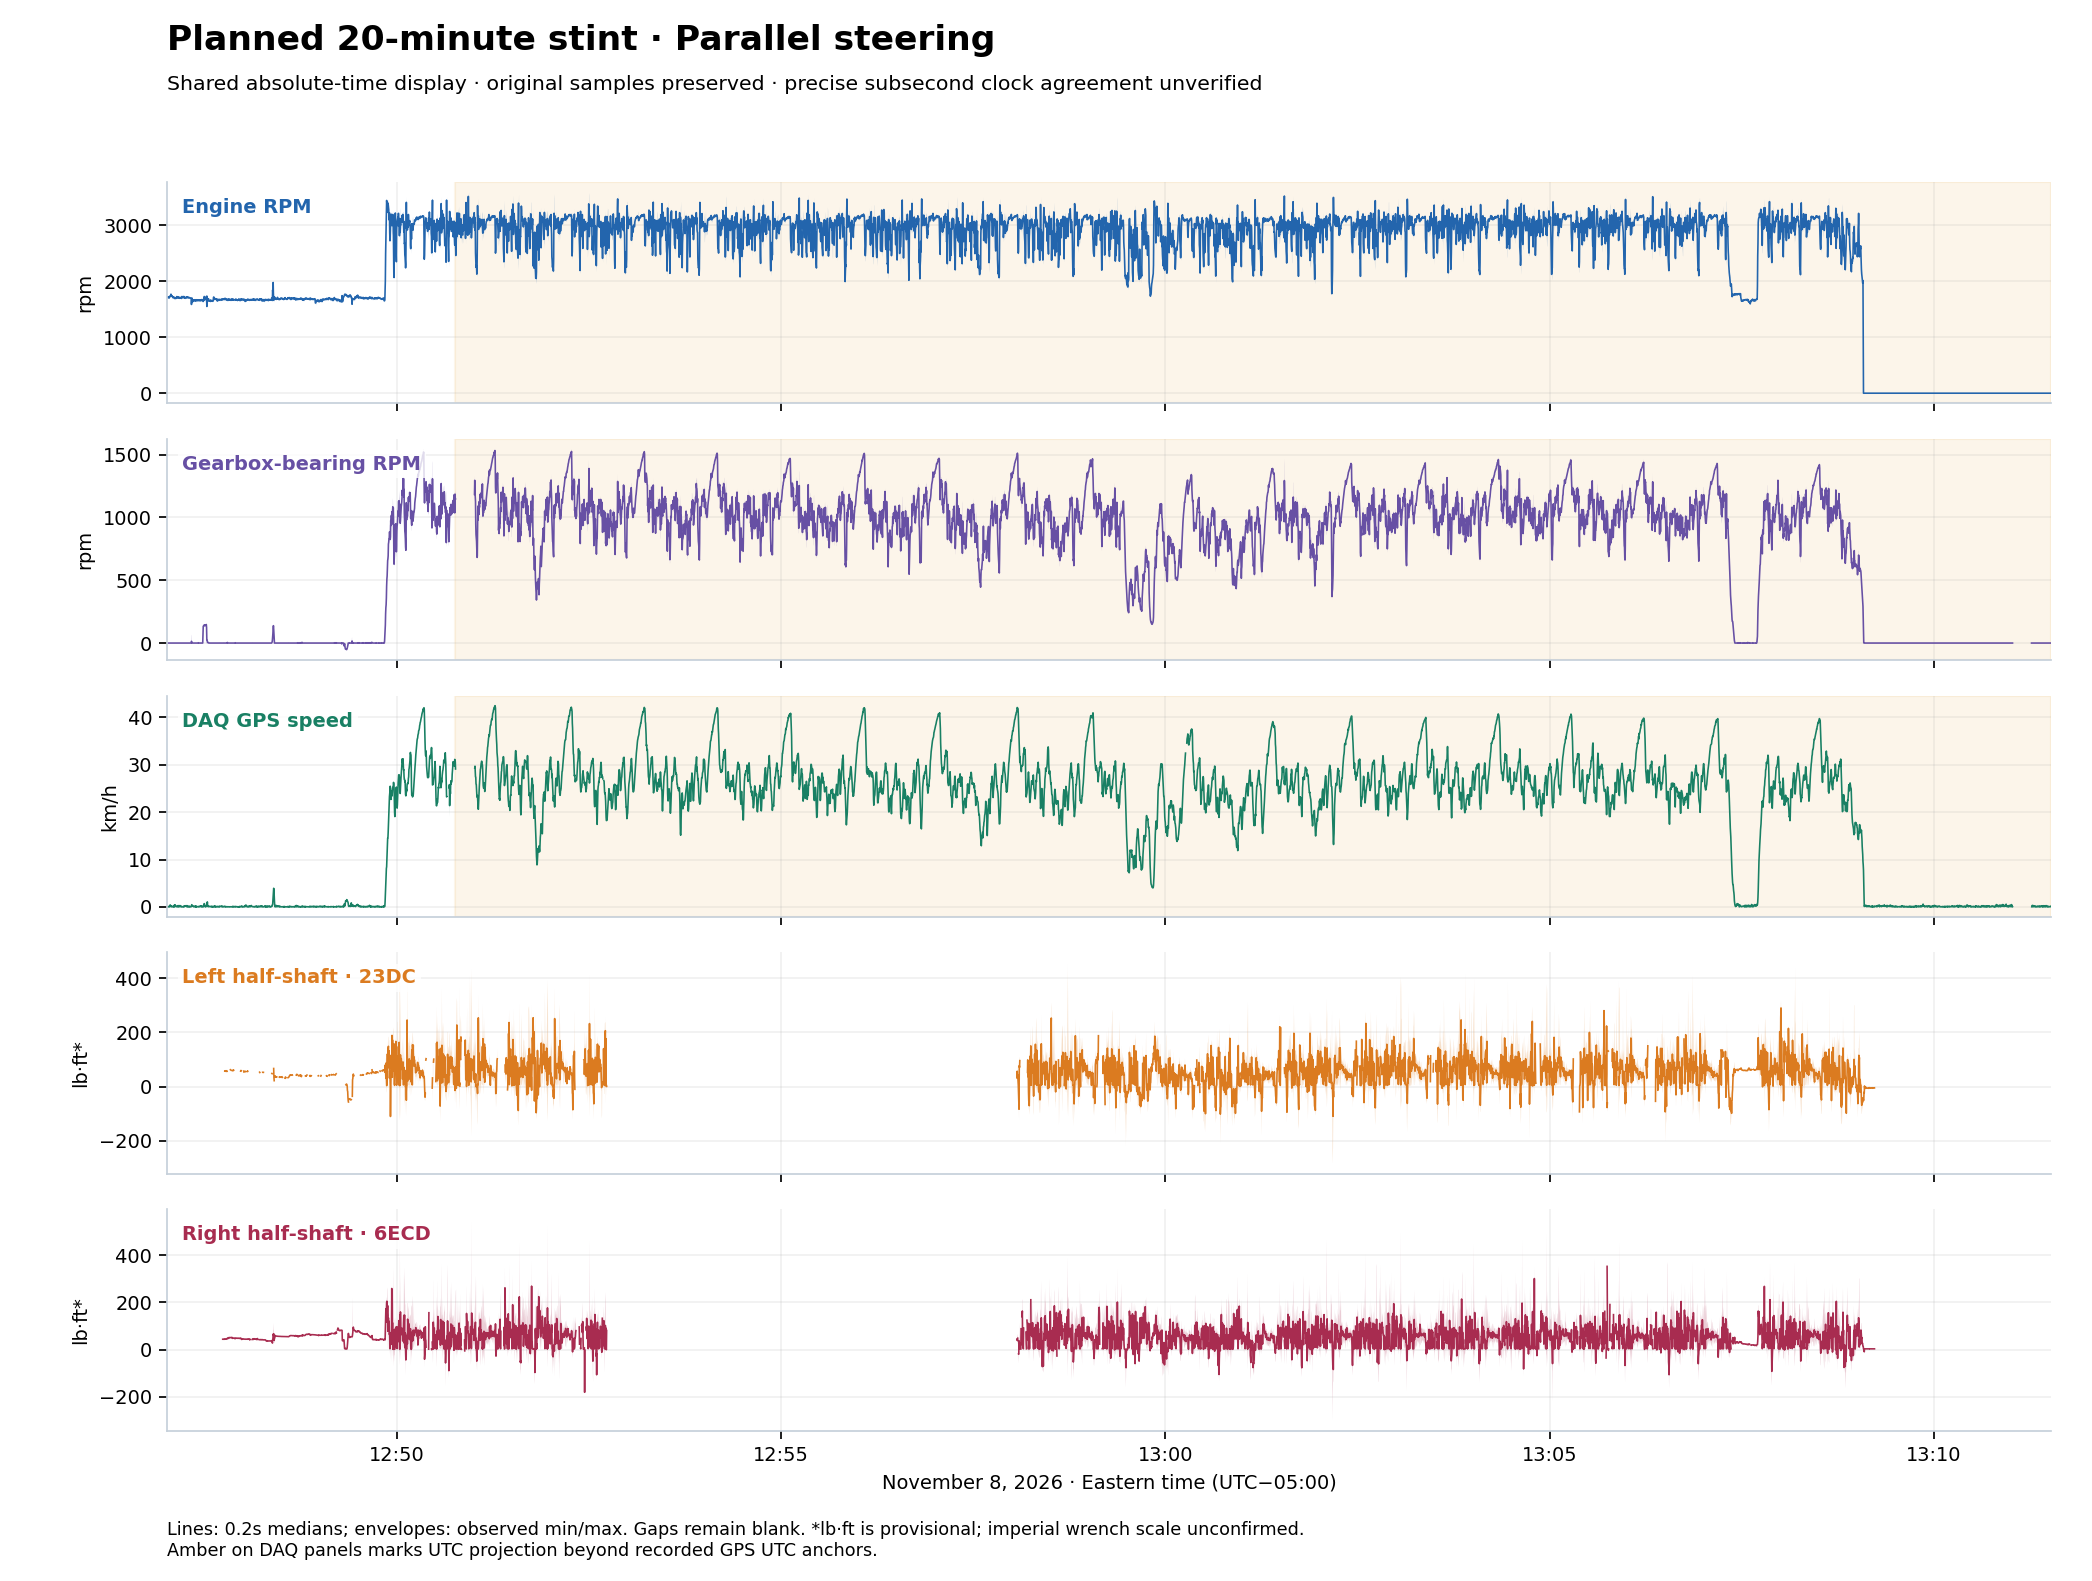
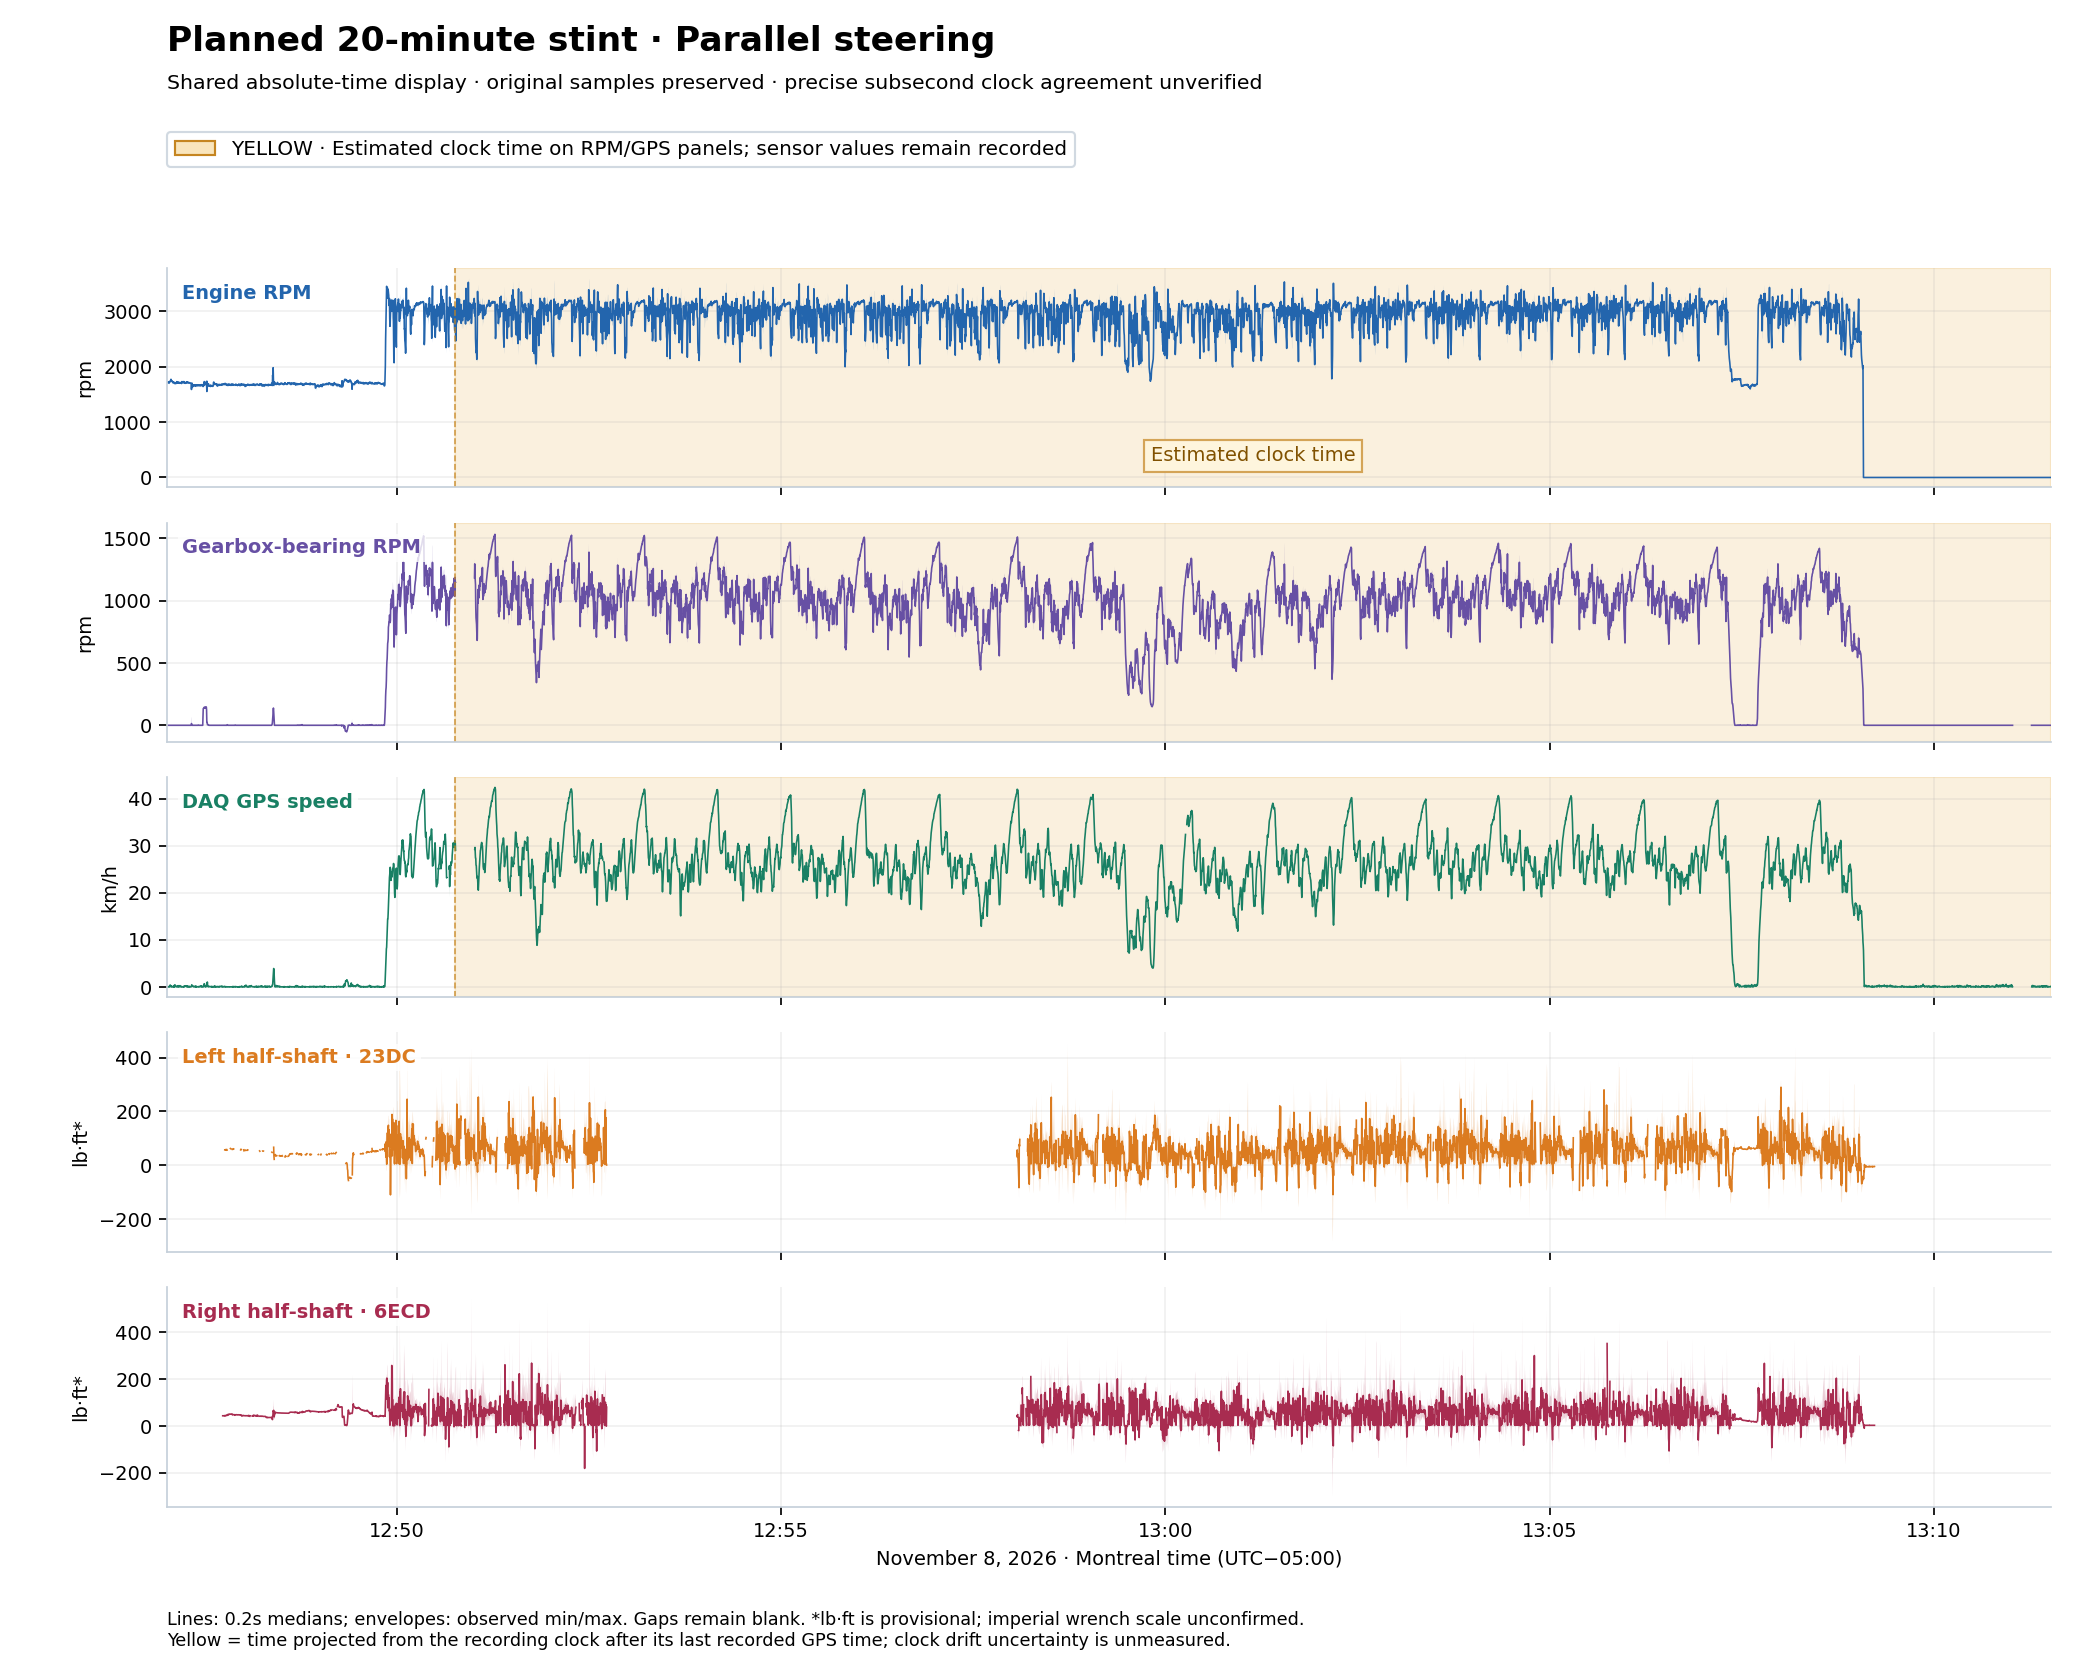
Clarify estimated-time shading and night strain review region

diff --git a/data/ENA-2026-11-01_08/dr/README.md b/data/ENA-2026-11-01_08/dr/README.md
@@ -11,3 +11,5 @@ Both workbooks use Session, Original files, Absolute time (Montreal), Session ti
 Half-shaft units remain provisional: imperial wrench scale, lb·ft versus lb·in to confirm. Night LHS from night_ack_run_2.csv is unreliable; night_ack_run_3.csv has sparse LHS coverage. No night DAQ recording. Gearbox-bearing RPM ends around 14:54:40 Montreal time.
 
 [Session plots](plots/) show the actual recorded coverage. The video link will be added after sharing through Teams.
+
+Graph shading: **yellow** on RPM/GPS panels means clock time is estimated after the last recorded GPS time; sensor values remain recorded. **Red** on the night LHS plot marks file 2 for review because its near-flat section is unreliable. **Grey** marks the end of gearbox-bearing coverage.
